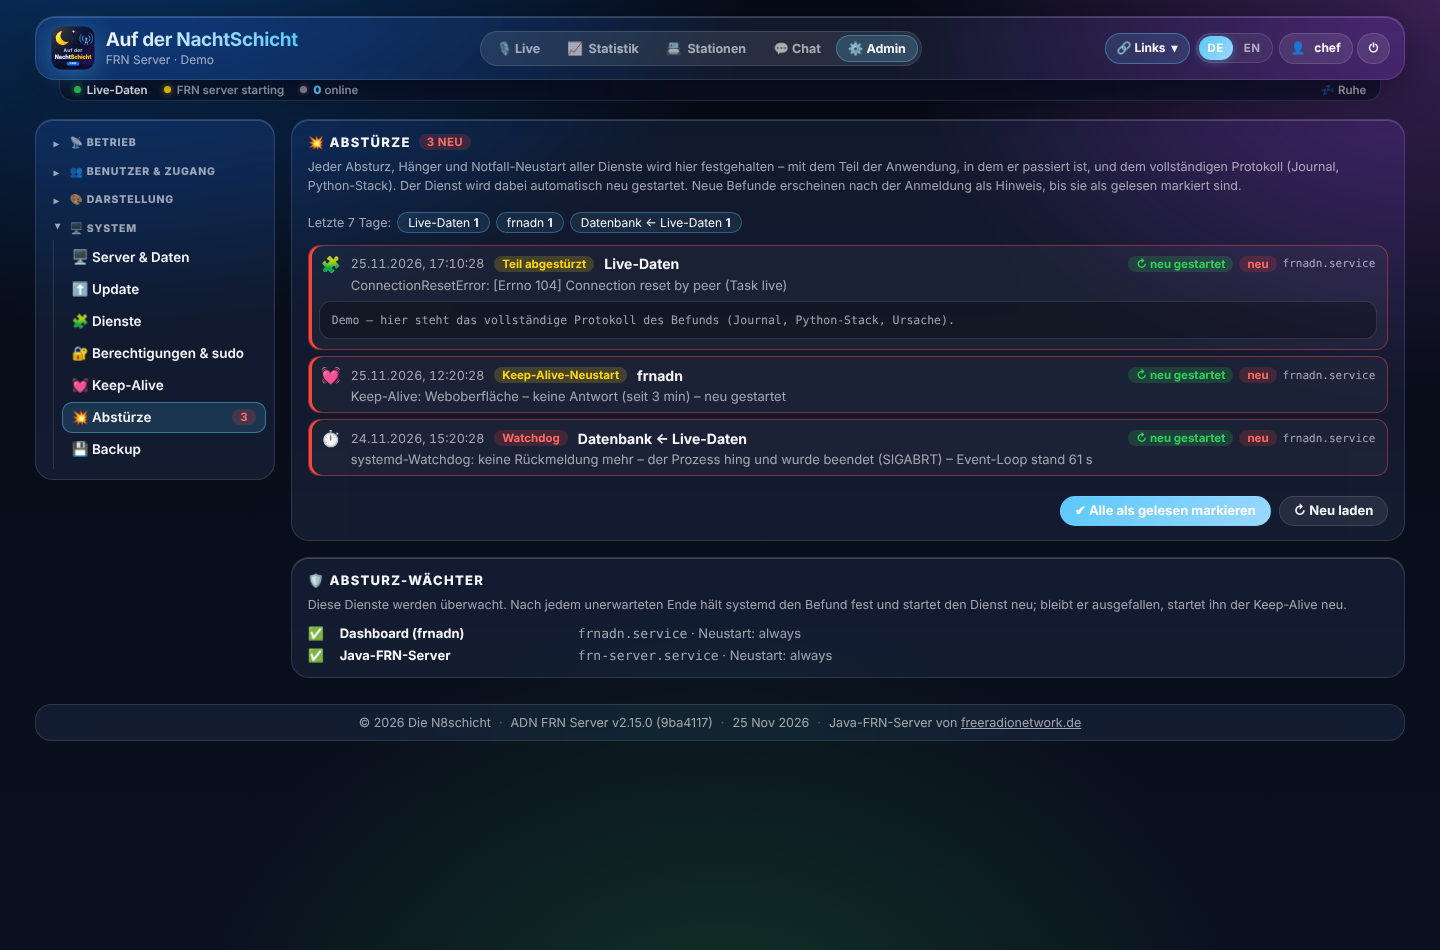
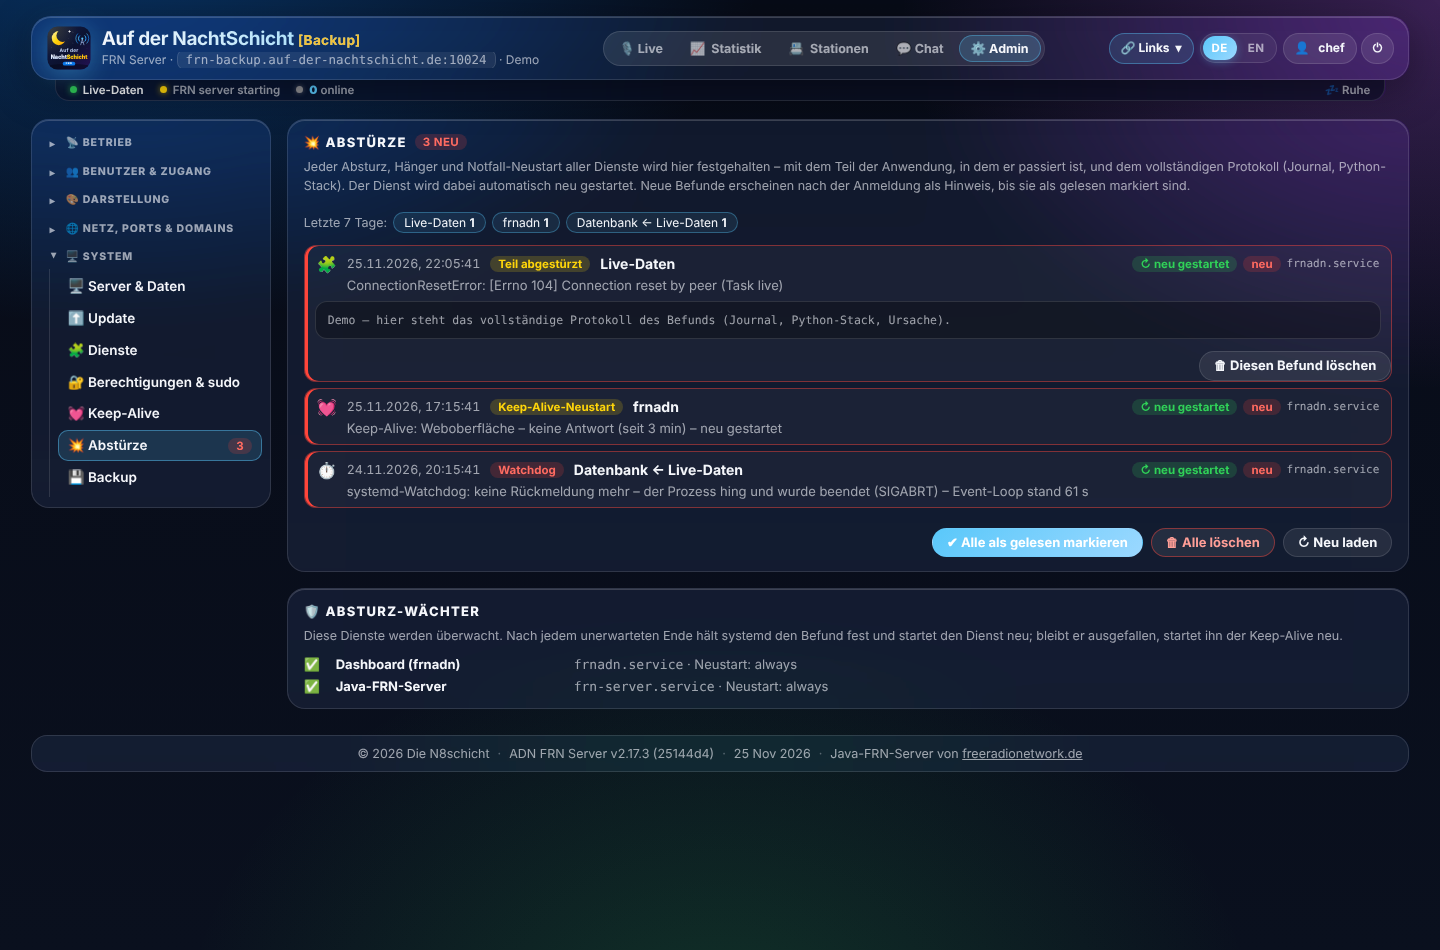
Abstürze bereinigen (einzeln, gefiltert, alle) in allen N8-Systemen; Rolle [Master]/[Backup]/[Standalone] im Kopfbereich
Claude-Session: https://claude.ai/code/session_01J5RG2njQDPpN1LJmv9Xn8d

diff --git a/static/n8-kit.js b/static/n8-kit.js
@@ -1,5 +1,5 @@
 /*
- * N8 Kit 1.4.1 – shared by the N8schicht web interfaces
+ * N8 Kit 1.4.2 – shared by the N8schicht web interfaces
  * (HobbyRadioPortal, N8 Crosslink, HBlink4-FreeRadioID, adn-frn-server, N8-HotSpot).
  * The same file is in every repository; change it in one, copy it to the others.
  *
@@ -627,7 +627,8 @@
             <span class="n8-badge ${k[2]}">${esc(t(k[1]))}</span><b class="n8-crash-s">${esc(e.service || e.unit || '?')}</b>
             <span class="n8-crash-r">${esc(e.reason || '')}</span>
             <span class="n8-crash-m">${e.restarted ? `<span class="n8-badge ok">↻ ${esc(t('neu gestartet'))}</span>` : ''}${e.new ? `<span class="n8-badge bad">${esc(t('neu'))}</span>` : ''}<code>${esc(e.unit || '')}</code></span>
-            </summary><pre class="n8-log">…</pre></details>`;
+            </summary><pre class="n8-log">…</pre>
+            <div class="n8-actions"><button type="button" class="n8-btn" data-del="${esc(e.id)}">🗑 ${esc(t('Diesen Befund löschen'))}</button></div></details>`;
     }
     function bindRows(el, req) {
         el.querySelectorAll('details.n8-crash').forEach(d => d.addEventListener('toggle', async () => {
@@ -650,7 +651,7 @@
             paint(`<div class="n8-crash-sys">${card('💥 Abstürze', `<p class="n8-help">${esc(t('Jeder Absturz, Hänger und Notfall-Neustart aller Dienste wird hier festgehalten – mit dem Teil der Anwendung, in dem er passiert ist, und dem vollständigen Protokoll (Journal, Python-Stack). Der Dienst wird dabei automatisch neu gestartet. Neue Befunde erscheinen nach der Anmeldung als Hinweis, bis sie als gelesen markiert sind.'))}</p>
                 ${week.length ? `<div class="n8-crash-week"><span class="n8-dim">${esc(t('Letzte 7 Tage'))}:</span> ${week.map(([s, n]) => `<button type="button" class="n8-chip ${filter === s ? 'on' : ''}" data-f="${esc(s)}">${esc(s)} <b>${n}</b></button>`).join('')}${filter ? `<button type="button" class="n8-chip" data-f="">✕ ${esc(t('alle'))}</button>` : ''}</div>` : ''}
                 <div class="n8-crash-list">${items.length ? items.map(crashRow).join('') : `<div class="n8-help">✅ ${esc(t('Keine Abstürze festgehalten.'))}</div>`}</div>
-                <div class="n8-actions">${d.unacked ? `<button type="button" class="n8-btn primary" data-a="ack">✔ ${esc(t('Alle als gelesen markieren'))}</button>` : ''}<button type="button" class="n8-btn" data-a="reload">↻ ${esc(t('Neu laden'))}</button></div>`, badge)}
+                <div class="n8-actions">${d.unacked ? `<button type="button" class="n8-btn primary" data-a="ack">✔ ${esc(t('Alle als gelesen markieren'))}</button>` : ''}${items.length ? `<button type="button" class="n8-btn danger" data-a="del">🗑 ${esc(filter ? t('Angezeigte löschen') + ` (${items.length})` : t('Alle löschen'))}</button>` : ''}<button type="button" class="n8-btn" data-a="reload">↻ ${esc(t('Neu laden'))}</button></div>`, badge)}
                 ${card('🛡 Absturz-Wächter', units.length ? `<p class="n8-help">${esc(t('Diese Dienste werden überwacht. Nach jedem unerwarteten Ende hält systemd den Befund fest und startet den Dienst neu; bleibt er ausgefallen, startet ihn der Keep-Alive neu.'))}</p>
                     <div class="n8-perm">${units.map(u => `<div class="n8-perm-r">✅<b>${esc(u.label || u.unit)}</b><span><code>${esc(u.unit)}</code> · ${esc(t('Neustart'))}: ${esc(u.restart || '–')}</span></div>`).join('')}</div>`
                     : `<p class="n8-help">⚠ ${esc(t('Der Absturz-Wächter ist noch nicht eingerichtet. Er wird beim nächsten Update eingerichtet – oder einmal auf der Konsole:'))}</p><pre class="n8-log">${esc(cons)} setup-crashwatch</pre>`)}</div>`);
@@ -659,6 +660,16 @@
             const ack = el.querySelector('[data-a=ack]');
             if (ack) ack.onclick = async () => { try { await req('POST', '/api/admin/crashes/ack', { all: true }); load(); if (o.onAck) o.onAck(); } catch (x) { alert(x.message); } };
             el.querySelector('[data-a=reload]').onclick = load;
+            // bereinigen: alle (oder die gefilterten) Befunde samt Protokoll löschen
+            const del = async (body, question) => {
+                if (!confirm(question)) return;
+                try { await req('POST', '/api/admin/crashes/delete', body); if (o.onAck) o.onAck(); load(); } catch (x) { alert(x.message); }
+            };
+            const delAll = el.querySelector('[data-a=del]');
+            if (delAll) delAll.onclick = () => filter
+                ? del({ ids: items.map(e => e.id) }, t('Die angezeigten Befunde samt Protokoll löschen?') + ` (${items.length})`)
+                : del({ all: true }, t('Alle Befunde samt Protokoll löschen? Das lässt sich nicht rückgängig machen.'));
+            el.querySelectorAll('[data-del]').forEach(b => b.onclick = ev => { ev.preventDefault(); del({ ids: [b.dataset.del] }, t('Diesen Befund samt Protokoll löschen?')); });
         };
         return load();
     }
@@ -931,6 +942,10 @@
             'Update installiert.': 'Update installed.',
             'Das Update wurde zurückgenommen – es läuft wieder die vorherige Version.': 'The update was rolled back – the previous version is running again.',
             'Nicht aktualisiert – es läuft unverändert die bisherige Version.': 'Not updated – the previous version keeps running unchanged.',
+            'Diesen Befund löschen': 'Delete this record', 'Angezeigte löschen': 'Delete shown', 'Alle löschen': 'Delete all',
+            'Die angezeigten Befunde samt Protokoll löschen?': 'Delete the shown records with their logs?',
+            'Alle Befunde samt Protokoll löschen? Das lässt sich nicht rückgängig machen.': 'Delete all records with their logs? This cannot be undone.',
+            'Diesen Befund samt Protokoll löschen?': 'Delete this record with its log?',
             'Einzelheiten im Update-Protokoll (System → Update).': 'Details in the update log (System → Update).',
             'von Hand geänderte Dateien – Update abgebrochen': 'files changed by hand – update stopped',
             'Der Dienst antwortet noch nicht. Bitte in ein paar Minuten neu laden oder das Update-Protokoll ansehen.': 'The service does not answer yet. Reload in a few minutes or look at the update log.',

diff --git a/static/app.js b/static/app.js
@@ -233,8 +233,10 @@ async function boot() {
 }
 function renderHeader() {
     const i = S.info || {};
-    $('title').textContent = i.title || 'Auf der NachtSchicht';
-    document.title = i.title || 'Auf der NachtSchicht';
+    // Rolle des Servers als Suffix: Auf der NachtSchicht [Master] / [Backup] / [Standalone]
+    const role = { master: 'Master', backup: 'Backup', off: 'Standalone' }[i.role] || '';
+    $('title').innerHTML = esc(i.title || 'Auf der NachtSchicht') + (role ? ` <span class="title-role role-${esc(i.role)} notranslate" translate="no">[${role}]</span>` : '');
+    document.title = (i.title || 'Auf der NachtSchicht') + (role ? ` [${role}]` : '');
     const parts = [i.subtitle, i.address ? `<span class="addr">${esc(i.address)}</span>` : '', i.demo ? 'Demo' : ''].filter(Boolean);
     $('subtitle').innerHTML = parts.map(p => p.startsWith('<') ? p : esc(p)).join(' · ');
     $('tabAdminBtn').classList.toggle('hidden', !isAdmin());

diff --git a/static/app.css b/static/app.css
@@ -494,3 +494,7 @@ header { padding:7px 12px; gap:9px; }
 .cl-ok { color: #4ade80; } .cl-bad { color: #f87171; } .cl-warn { color: #fbbf24; }
 .cl-box .actions { margin-top: 10px; gap: 8px; flex-wrap: wrap; align-items: center; }
 .cl-steps > div { padding: 4px 0; }
+
+/* Rolle im Kopfbereich: [Master] / [Backup] / [Standalone] */
+.title-role { font-size: 0.72em; font-weight: 700; letter-spacing: .02em; opacity: .9; white-space: nowrap; }
+.title-role.role-master { color: #4ade80; } .title-role.role-backup { color: #fbbf24; } .title-role.role-off { color: #9aa4b8; }

diff --git a/frnadn/n8_admin.py b/frnadn/n8_admin.py
@@ -271,7 +271,7 @@ class N8Admin:
                 continue
             if isinstance(e, dict) and isinstance(e.get("id"), str) and _CRASH_ID.fullmatch(e["id"]):
                 out.append(e)
-        if self.demo and not out:
+        if self.demo and not out and not getattr(self, "_demo_deleted", False):
             now = time.time()
             unit = next((u["unit"] for u in self.config().get("units", []) if u["unit"].endswith(".service")), "demo.service")
             out = [{"id": "20261125-031240-d001", "time": now - 26 * 3600, "unit": unit, "service": "Datenbank ← Live-Daten", "kind": "watchdog",
@@ -337,6 +337,45 @@ class N8Admin:
         os.replace(tmp, d / "ack.json")
         return self.crashes()
 
+    def crash_delete(self, ids: Optional[List[str]] = None, all_: bool = False) -> Dict[str, Any]:
+        """Befunde löschen (bereinigen): alle oder einzelne – Eintrag in crashes.jsonl und das Protokoll crash/<id>.log."""
+        d = self.state_dir / "crash"
+        if self.demo:
+            self._demo_deleted = True if all_ else getattr(self, "_demo_deleted", False)
+            return self.crashes()
+        keep_ids = None if all_ else {i for i in (ids or []) if _CRASH_ID.fullmatch(str(i))}
+        f = self.state_dir / "crashes.jsonl"
+        try:
+            lines = f.read_text("utf-8", "replace").splitlines()
+        except OSError:
+            lines = []
+        kept, gone = [], []
+        for line in lines:
+            try:
+                cid = json.loads(line).get("id")
+            except (ValueError, AttributeError):
+                cid = None
+            if keep_ids is None or (cid in keep_ids):
+                if cid:
+                    gone.append(cid)
+                continue
+            kept.append(line)
+        if lines:
+            tmp = f.with_name("crashes.jsonl.tmp")
+            tmp.write_text("".join(x + "\n" for x in kept), "utf-8")
+            os.chmod(tmp, 0o640)
+            os.replace(tmp, f)
+        for cid in gone:
+            if _CRASH_ID.fullmatch(cid):
+                (d / f"{cid}.log").unlink(missing_ok=True)
+        if all_:                                  # alles weg: auch Reste von Protokollen ohne Eintrag
+            for p_ in d.glob("*.log"):
+                if _CRASH_ID.fullmatch(p_.stem):
+                    p_.unlink(missing_ok=True)
+            (d / "ack.json").unlink(missing_ok=True)
+        r = self.crashes()
+        r["deleted"] = len(gone)
+        return r
 
 def own_unit() -> str:
     """systemd-Dienst, in dem dieser Prozess läuft (aus /proc/self/cgroup), sonst ''."""

diff --git a/tests/test_crash_delete.py b/tests/test_crash_delete.py
@@ -1,0 +1,40 @@
+"""💥 Abstürze bereinigen: einzelne und alle Befunde samt Protokoll löschen (n8_admin.N8Admin.crash_delete)."""
+import json
+import time
+
+from frnadn.n8_admin import N8Admin
+
+
+def make(tmp_path, n=3):
+    d = tmp_path / "crash"
+    d.mkdir()
+    ids = [f"20261125-2100{i:02d}-frnadn" for i in range(n)]
+    with open(tmp_path / "crashes.jsonl", "w") as f:
+        for i, cid in enumerate(ids):
+            f.write(json.dumps({"id": cid, "time": time.time() - 100 + i, "unit": "frnadn.service", "kind": "crash",
+                                "service": "Dashboard", "reason": "x", "log": cid + ".log"}) + "\n")
+            (d / f"{cid}.log").write_text("log")
+    (d / "fault-frnadn.service.log").write_text("faulthandler")
+    return ids
+
+
+def test_delete_one_and_all(tmp_path):
+    ids = make(tmp_path)
+    a = N8Admin(tmp_path)
+    assert a.crashes()["total"] == 3
+    r = a.crash_delete([ids[1], "../etc/passwd"])
+    assert r["deleted"] == 1 and r["total"] == 2 and ids[1] not in [e["id"] for e in r["items"]]
+    assert not (tmp_path / "crash" / f"{ids[1]}.log").exists() and (tmp_path / "crash" / f"{ids[0]}.log").exists()
+    a.crash_ack(all_=True)
+    r = a.crash_delete(all_=True)
+    assert r["total"] == 0 and r["unacked"] == 0 and r["deleted"] == 2
+    assert not list((tmp_path / "crash").glob("2026*.log")) and not (tmp_path / "crash" / "ack.json").exists()
+    assert (tmp_path / "crash" / "fault-frnadn.service.log").exists()      # faulthandler file stays
+    # new records after cleaning are counted again
+    with open(tmp_path / "crashes.jsonl", "a") as f:
+        f.write(json.dumps({"id": "20261125-220000-frnadn", "time": time.time(), "unit": "frnadn.service"}) + "\n")
+    assert a.crashes()["unacked"] == 1
+
+
+def test_delete_without_records(tmp_path):
+    assert N8Admin(tmp_path).crash_delete(all_=True)["total"] == 0

diff --git a/frnadn/app.py b/frnadn/app.py
@@ -235,7 +235,8 @@ def info_for(u) -> Dict[str, Any]:
         addr = f"{addr}:{s['frn.port']}"
     return {"title": s["dashboard.title"], "subtitle": s["dashboard.subtitle"], "address": addr, "public": s["dashboard.public"],
             "version": __version__, "demo": DEMO, "chat": ctx.chat_allowed(u), "owner": s["frn.owner_callsign"],
-            "website": s["frn.website"], "setup_needed": not ctx.auth.has_superadmin()}
+            "website": s["frn.website"], "setup_needed": not ctx.auth.has_superadmin(),
+            "role": s["cluster.role"]}          # Master & Backup: im Kopfbereich als [Master] / [Backup] / [Standalone]
 
 
 def refresh_sockets() -> None:
@@ -1672,6 +1673,14 @@ async def crashes_ack(request: Request):
     b = b if isinstance(b, dict) else {}
     ids = b.get("ids") if isinstance(b.get("ids"), list) else []
     return await asyncio.to_thread(ctx.n8.crash_ack, [str(i) for i in ids][:500], bool(b.get("all")))
+
+@app.post("/api/admin/crashes/delete")
+async def crashes_delete(request: Request):
+    need_admin(request)
+    b = await body(request)
+    b = b if isinstance(b, dict) else {}
+    ids = b.get("ids") if isinstance(b.get("ids"), list) else []
+    return await asyncio.to_thread(ctx.n8.crash_delete, [str(i) for i in ids][:500], bool(b.get("all")))
 
 
 @app.get("/api/admin/keepalive")

diff --git a/tests/test_security.py b/tests/test_security.py
@@ -78,6 +78,7 @@ def test_services_and_perms_api(app_mod, tmp_path):
         assert c.get("/api/admin/crashes/" + d["items"][0]["id"]).json()["log"]
         assert c.get("/api/admin/crashes/..%2Fx").status_code == 404
         assert c.post("/api/admin/crashes/ack", json={"all": True}, headers={"X-N8": "1"}).json()["unacked"] == 0
+        assert c.post("/api/admin/crashes/delete", json={"all": True}, headers={"X-N8": "1"}).json()["total"] == 0
     conf = (ROOT / "scripts" / "n8-admin.conf").read_text()
     assert "N8_KA_CHECKS=" in conf and "frn-server.service|tcp|" in conf
 

diff --git a/frnadn/__init__.py b/frnadn/__init__.py
@@ -1,2 +1,2 @@
 """frn_adn – dashboard and admin area for the FRN server, design: Auf der NachtSchicht."""
-__version__ = "2.17.3"
+__version__ = "2.18.0"

diff --git a/CHANGELOG.md b/CHANGELOG.md
@@ -2,6 +2,21 @@
 
 Format: neueste Version zuerst. Die Versionsnummer steht in `frnadn/__init__.py`.
 
+## 2.18.0 – 2026-11-25
+
+### 🏷 Rolle im Kopfbereich: [Master] · [Backup] · [Standalone]
+- Hinter dem Titel steht jetzt die Rolle des Servers aus *Einstellungen → 🔁 Master & Backup*, z. B. **Auf der NachtSchicht
+  [Master]** (grün), **[Backup]** (gelb) oder **[Standalone]** (grau, Einzelserver) – auch im Browser-Tab, damit man Master und
+  Backup nicht verwechselt. `/api/info` liefert dafür `role`.
+
+### 🗑 Abstürze bereinigen – in allen N8-Systemen
+- **Admin → System → 💥 Abstürze**: jeder aufgeklappte Befund hat **🗑 Diesen Befund löschen**, unten gibt es **🗑 Alle löschen**
+  (bzw. **🗑 Angezeigte löschen**, wenn nach einem Dienst gefiltert ist) – jeweils mit Rückfrage. Gelöscht werden der Eintrag in
+  `crashes.jsonl` und das Protokoll `crash/<id>.log`; bei „Alle“ auch Reste und der Gelesen-Stand. Die laufende
+  Faulthandler-Datei bleibt. Neue Befunde danach zählen wieder als neu.
+- Neue Adresse `POST /api/admin/crashes/delete` (`{"all": true}` oder `{"ids": [...]}`), Konsole `n8-admin.sh crashes-clear`.
+- Gemeinsame Bausteine `n8_admin.py`, N8 Kit 1.4.2 (`n8-kit.js`) und `n8-admin.sh` – gleich in allen N8-Systemen; Test `tests/test_crash_delete.py`.
+
 ## 2.17.3 – 2026-11-25
 
 ### 🐛 Update-Fenster: „Nicht aktualisiert“ statt fälschlich „zurückgenommen“

diff --git a/docs/de/betrieb.md b/docs/de/betrieb.md
@@ -68,6 +68,10 @@ Dashboard (`frnadn.service`) und der Java-FRN-Server (`frn-server.service`).
 erscheinen **nach der Anmeldung als Hinweisfenster** und als roter Zähler im Menü, bis sie als gelesen markiert sind.
 Konsole: `sudo /opt/adn-frn-server/scripts/n8-admin.sh crashes`. Dateien: `crashes.jsonl` (letzte 300), `crash/<id>.log`, `crash/ack.json`, `crashwatch.json`.
 
+**Bereinigen:** In jedem aufgeklappten Befund löscht **🗑 Diesen Befund löschen** ihn samt Protokoll, unten **🗑 Alle löschen**
+(mit Rückfrage) alle – ist oben nach einem Dienst gefiltert, heißt der Knopf **🗑 Angezeigte löschen** und löscht nur diese.
+Auf der Konsole: `sudo …/scripts/n8-admin.sh crashes-clear`. Die laufende Faulthandler-Datei (`crash/fault-*.log`) bleibt.
+
 ## 📋 Bei Problemen immer zuerst: das öffentliche FRN-Fehlerprotokoll
 
 Der FRN-SystemManager von freeradionetwork.de schreibt **jede abgelehnte Anmeldung** von Servern und Clients in ein öffentliches

diff --git a/docs/de/master-backup.md b/docs/de/master-backup.md
@@ -22,7 +22,8 @@ Konfiguration des Masters **zu jeder vollen Stunde** und auf Knopfdruck. Die bei
    **🎲 Neuer Schlüssel** → Schlüssel kopieren → **Speichern**.
 2. **Auf dem Backup:** Rolle **Backup**, *Dashboard des Partners* = `https://frn.auf-der-nachtschicht.de`, denselben
    **Sync-Schlüssel** einfügen, *Jede volle Stunde abgleichen* an → **Speichern** → **🔄 Jetzt abgleichen**.
-3. In beiden Kästen steht jetzt beim *Partner* ein grüner Haken mit Name, Rolle, Version und Stationen.
+3. In beiden Kästen steht jetzt beim *Partner* ein grüner Haken mit Name, Rolle, Version und Stationen. Im Kopfbereich steht
+   hinter dem Titel **[Master]** bzw. **[Backup]** (ohne Rolle: **[Standalone]**).
 
 Beide Server müssen dieselbe Version haben (mindestens 2.17.0). Die Uhren müssen stimmen (± 5 Minuten), sonst lehnt der
 Partner die Anfrage ab.

diff --git a/docs/de/dashboard.md b/docs/de/dashboard.md
@@ -45,6 +45,11 @@ Zustand der Dienste zeigt. Beides bleibt beim Scrollen oben stehen.
 
 <p align="center"><img src="../images/header-desktop.png" alt="Kopfzeile mit Menü und Statusleiste" width="95%"></p>
 
+**Rolle hinter dem Titel:** `[Master]` (grün), `[Backup]` (gelb) oder `[Standalone]` (grau, Einzelserver) – je nach
+*Einstellungen → 🔁 Master & Backup*, auch im Browser-Tab. So ist sofort klar, auf welchem Server man gerade ist.
+
+<p align="center"><img src="../images/kopf-rolle.png" alt="Kopfzeile des Backups mit [Backup]" width="95%"></p>
+
 **Menü**
 
 | Eintrag | Bedeutung |
